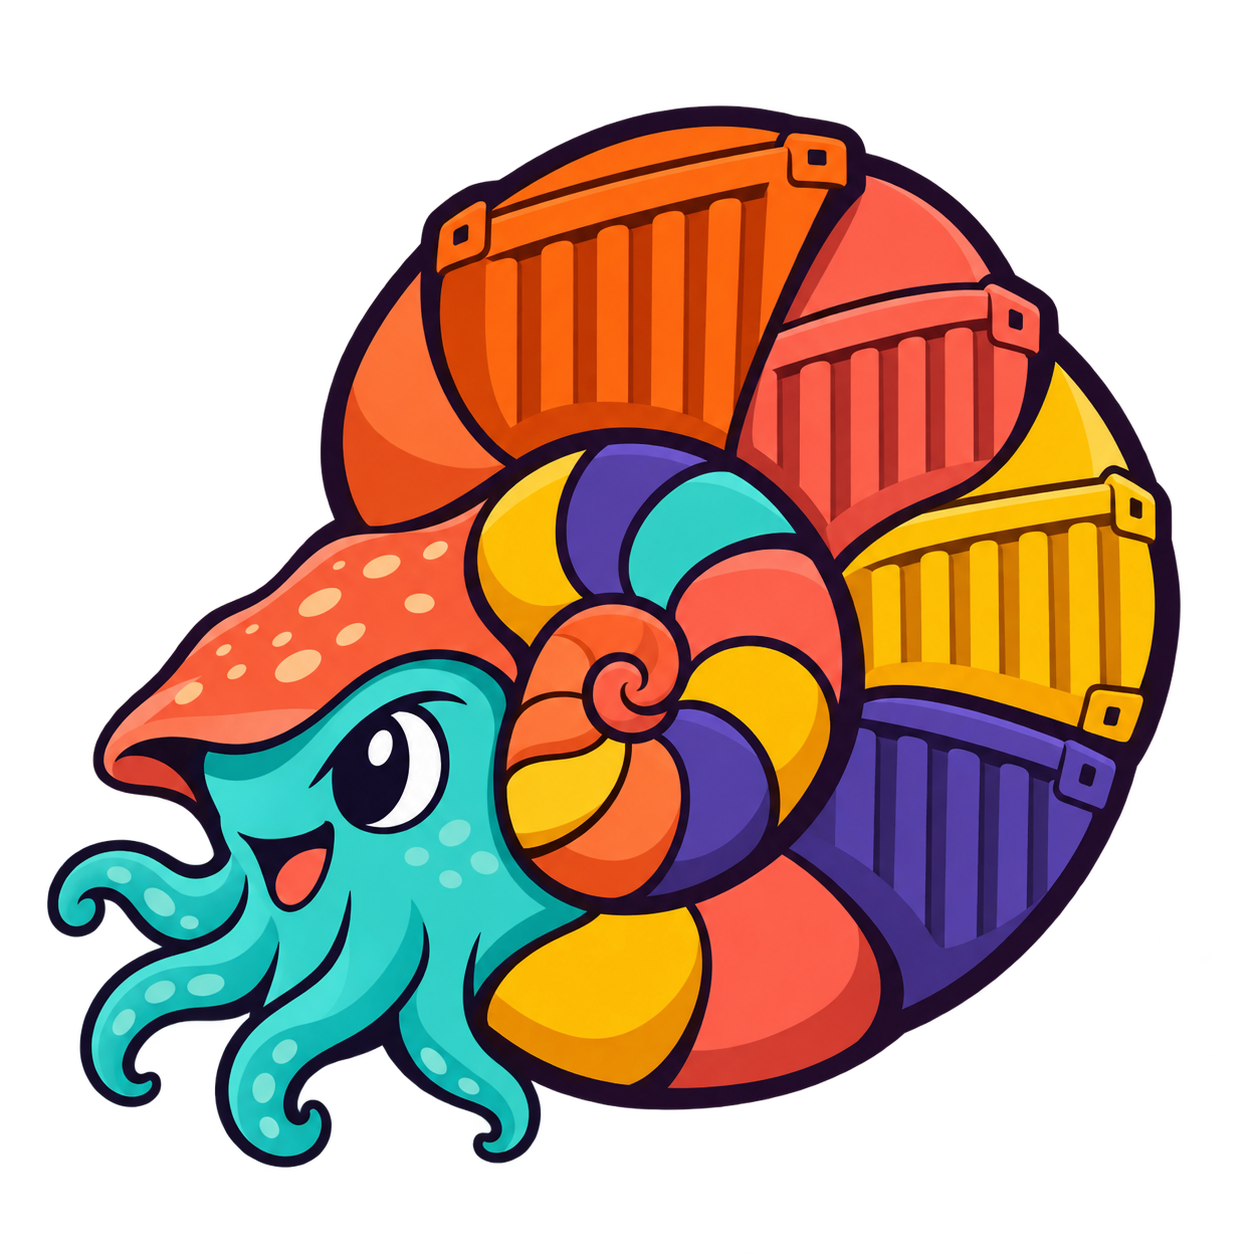
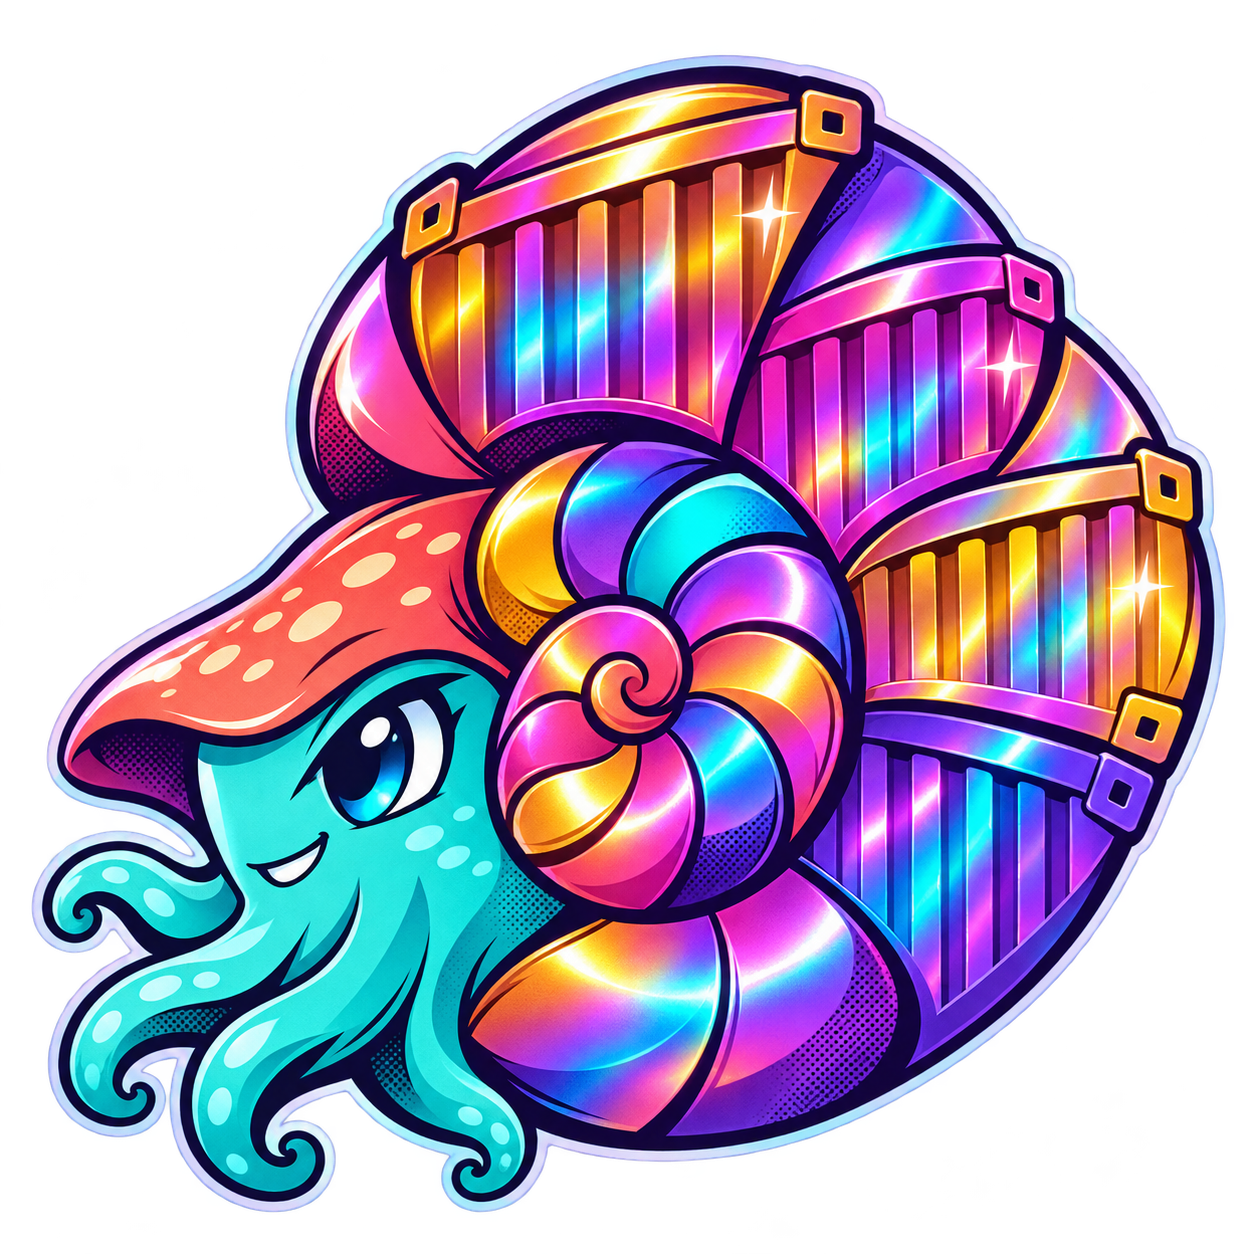
art: give the Nautilus mascot a holographic comic shell

diff --git a/docs/assets/README.md b/docs/assets/README.md
@@ -1,8 +1,8 @@
 # Nautilus Logo Assets
 
-The README features [the full-color mascot](nautilus-mascot.png). Its spiral
-shell has ribbed chambers shaped like cargo containers, a nod to the isolated
-workloads Nautilus runs. Use the transparent PNG for the illustrated mark
+The README features [the holographic comic mascot](nautilus-mascot.png). Bands of cyan, pink and gold
+catch the ribs of its spiral shell. Each chamber resembles a cargo container,
+a nod to the isolated workloads Nautilus runs. Use the transparent PNG for the illustrated mark
 and the compact SVG marks below for smaller sizes.
 
 ## Files
@@ -19,12 +19,12 @@ and the compact SVG marks below for smaller sizes.
 
 ## Mascot generation
 
-The illustrated mark was generated with ImageGen using this prompt.
+The previous mascot illustration was restyled with ImageGen using this prompt.
 
 <details>
 <summary>Full prompt</summary>
 
-> Logo-brand. Design one polished original mascot mark for Nautilus, a Rust implementation of the Kubernetes Container Runtime Interface that runs isolated OCI containers and Wasm workloads. A lively little chambered nautilus cephalopod in side profile, expressive eye and a few short curling tentacles, carrying an oversized coiled shell. Build the spiral from distinct colorful chambers following its curvature; a few outer chambers resemble tiny stackable cargo containers through simple broad ribs. Make the organic shell and the container idea read as one shape. Rust-orange and coral shell, turquoise body, sunny yellow and indigo accent chambers, deep ink outlines, minimal flat cel shading. A spirited illustrated open-source mascot, crafted silhouette legible at 96 px. Square composition, centered with small breathing room, entire mark visible, genuine transparent background. No scenery, lettering, labels, text, official tech logos or extra emblems.
+> Restyle the attached Nautilus project mascot as a premium holographic manga sticker for a GitHub README. Keep its left-facing chambered nautilus silhouette, curious expressive eye, curled tentacles, and unmistakable spiral shell made of ribbed shipping-container chambers. Redraw it with sweeping, tapered midnight-indigo comic inks, a lively upward tilt, a turquoise face, and a confident little smile. Make the shell the focal point: polished holographic foil with broad curved bands of electric cyan, violet and hot pink, a few warm amber flashes and crisp pearly glints flowing across the ribs. Use bold cel-shadow shapes and a few restrained halftone patches in the shadows. Keep the spiral and face clear at 160 px. Clean contour with a narrow cool-pearl rim for both light and dark backgrounds. One centered mascot, square composition, small clear margin, transparent background. No words, letters, frame, scenery, floating particles or diffuse bloom.
 
 </details>
 

diff --git a/README.md b/README.md
@@ -1,6 +1,6 @@
 # Nautilus
 
-<img src="docs/assets/nautilus-mascot.png" width="160" alt="A colorful nautilus with cargo containers forming its spiral shell">
+<img src="docs/assets/nautilus-mascot.png" width="160" alt="A turquoise cartoon nautilus with a holographic spiral shell made of shipping containers">
 
 Nautilus is a Linux container runtime written in Rust. It implements the Kubernetes Container Runtime Interface (CRI v1) and runs both OCI containers and WebAssembly commands. Kubelet and the bundled CLI use the same Unix socket, so you can try either runtime on a single machine before using it with a cluster.
 
